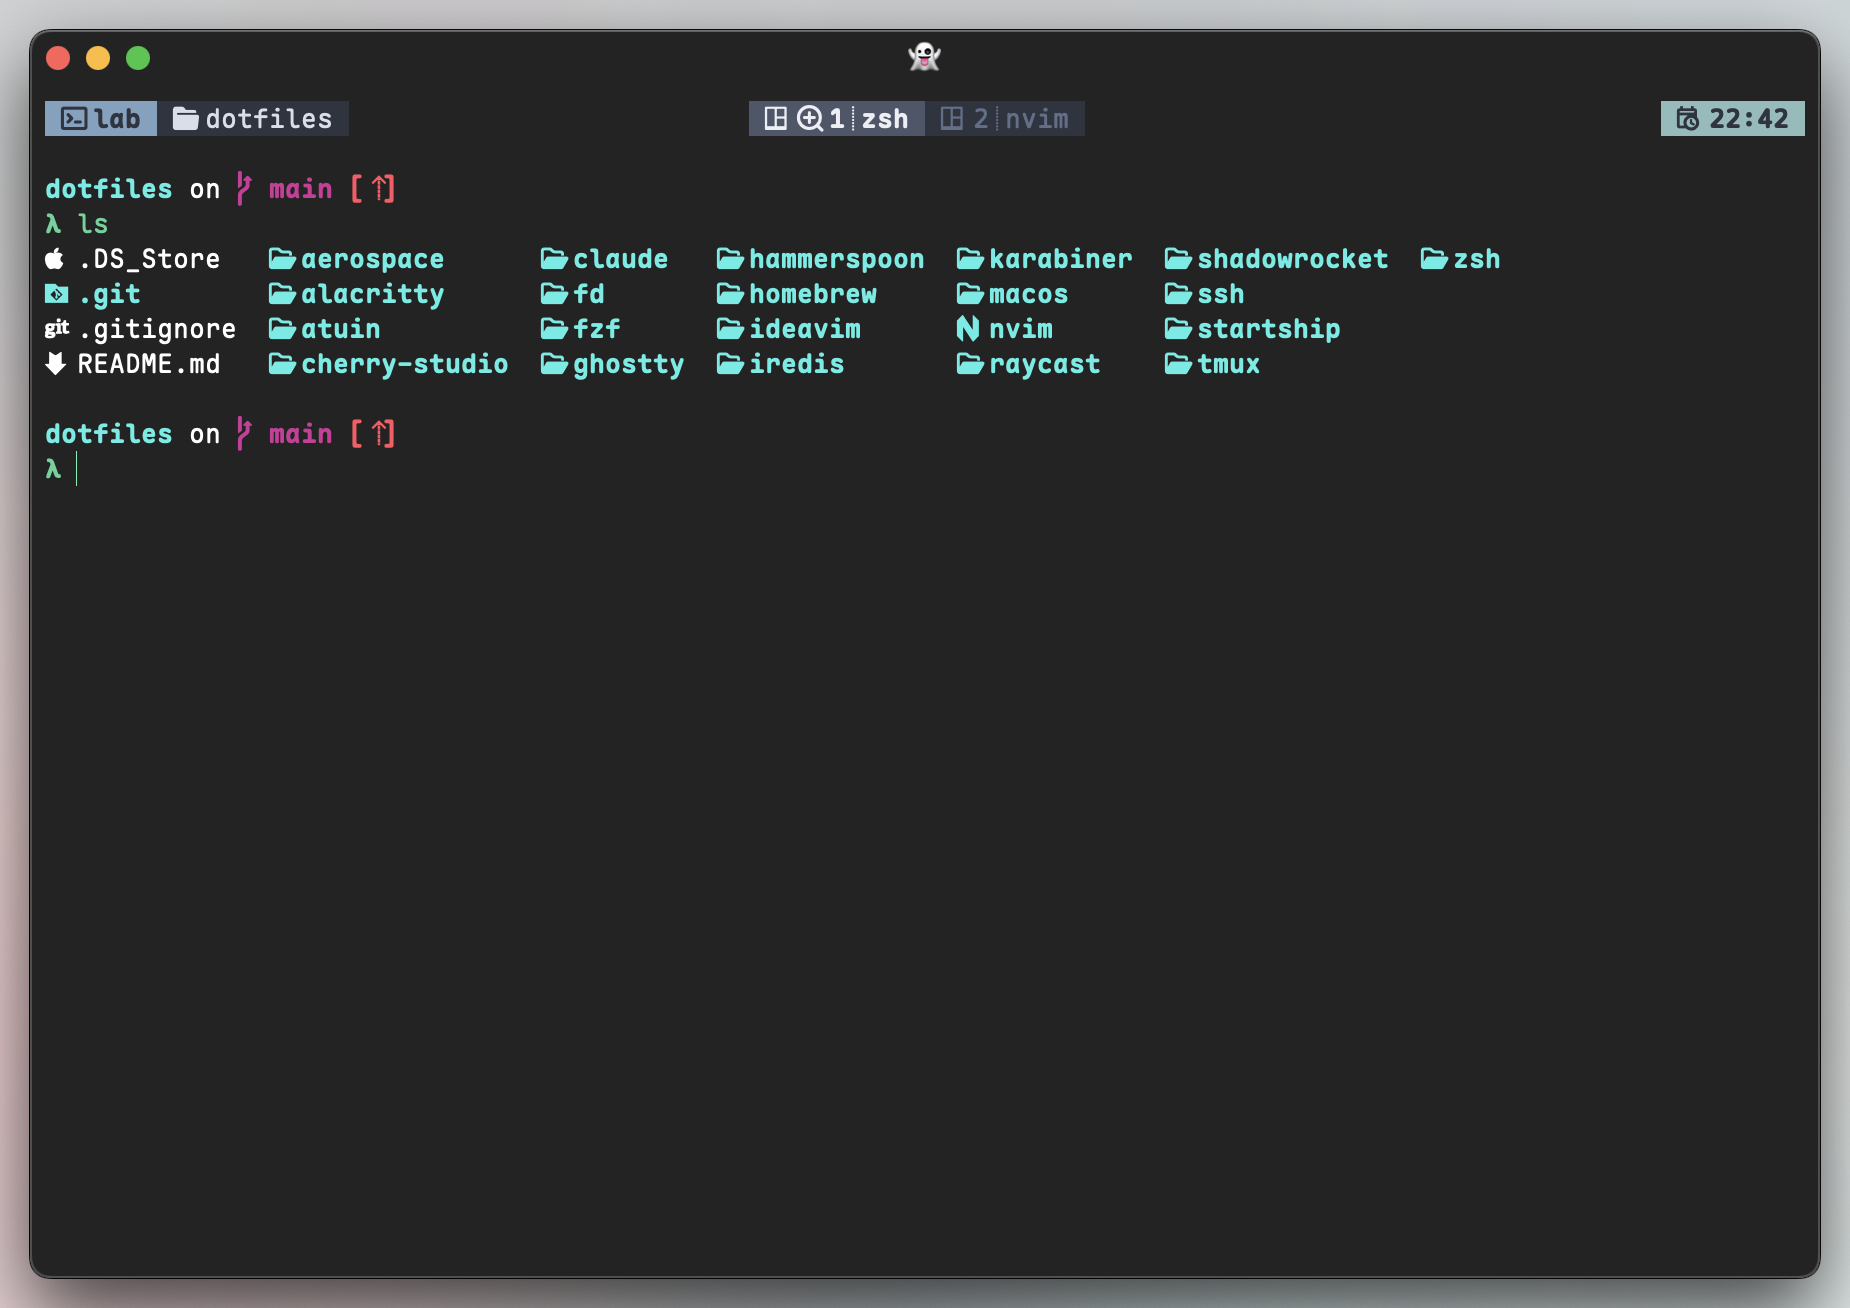
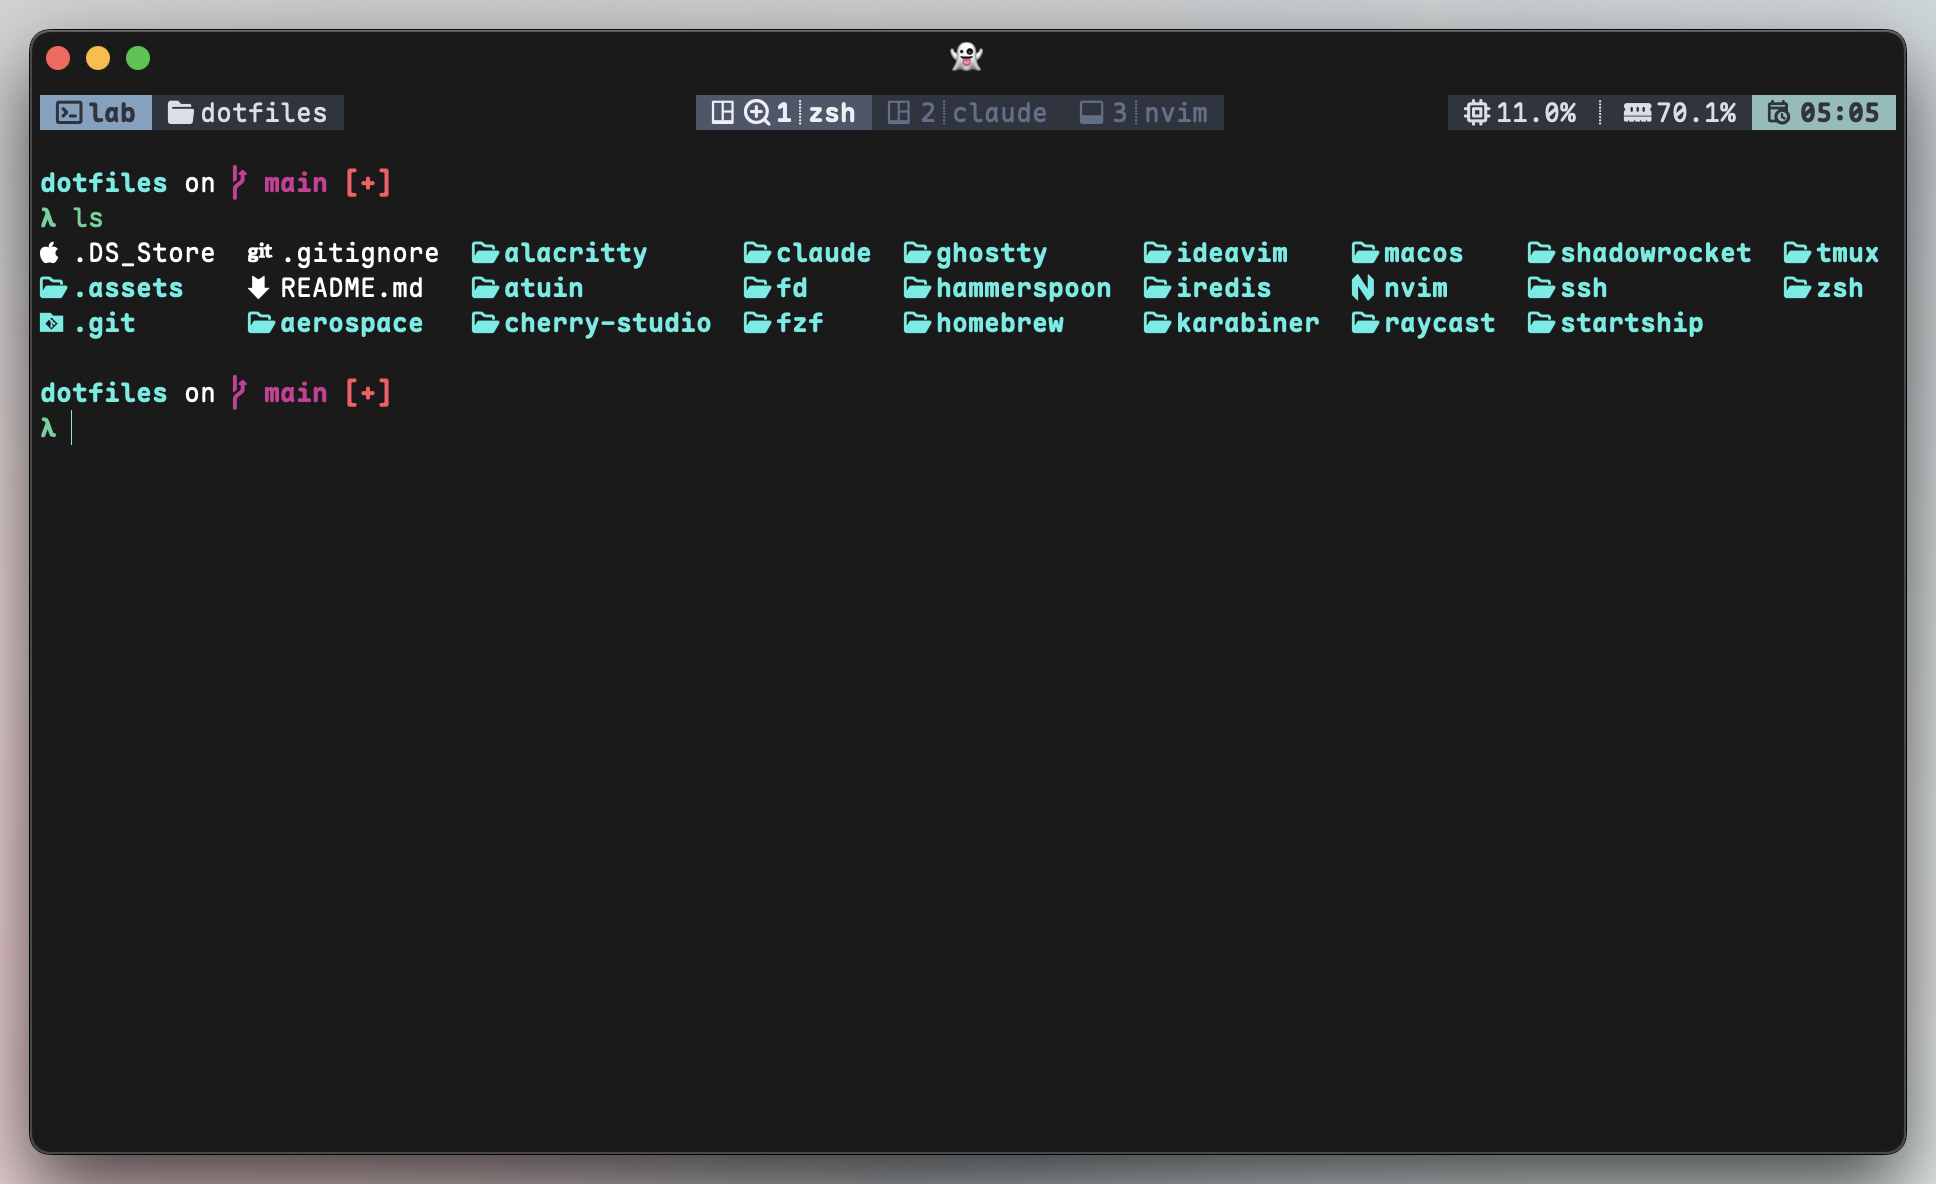
feat(tmux): add CPU/RAM metrics display to status bar
- Add cpu_percentage.sh and ram_percentage.sh scripts from tmux-cpu plugin
- Refactor theme.conf with cleaner block variable structure
- Update README with instructions to disable CPU/RAM display
- Update theme screenshots

Changed region(s): [[0.0, 0.0, 0.9859, 0.375], [0.0308, 0.9688, 0.9859, 1.0], [0.7395, 0.0625, 0.9859, 0.125]]

diff --git a/tmux/README.md b/tmux/README.md
@@ -1,14 +1,34 @@
 # Tmux Configuration
-## Theme
 
 My personal tmux configuration with Nord-inspired theme.
+
+## Theme
 
 Theme file: [theme.conf](./themes/theme.conf)
 
 Load the theme in **tmux.conf**
-```conf
+
+```tmux
 source-file "$YOUR_PATH/theme.conf"
 ```
+
+CPU/RAM metrics scripts: [themes/scripts/](./themes/scripts/) **(copied from [tmux-plugins  tmux-cpu](https://github.com/tmux-plugins/tmux-cpu))**
+
+<details>
+<summary>Disable CPU/RAM display</summary>
+
+Comment out [lines 43-47 in theme.conf](./themes/theme.conf#L43-L47)
+
+```sh
+# Comment the lines below if you don't want CPU/RAM block
+sh_cpu="#($HOME/.config/tmux/themes/scripts/cpu_percentage.sh)"
+sh_ram="#($HOME/.config/tmux/themes/scripts/ram_percentage.sh)"
+block_cpu_ram="#[fg=${nord_four_snow},bg=${nord_zero_black},nobold]  ${sh_cpu}   ${sh_ram} #[default]"
+set -ag status-right "${block_cpu_ram}"
+```
+
+</details>
+
 
 ### Normal Mode
 
